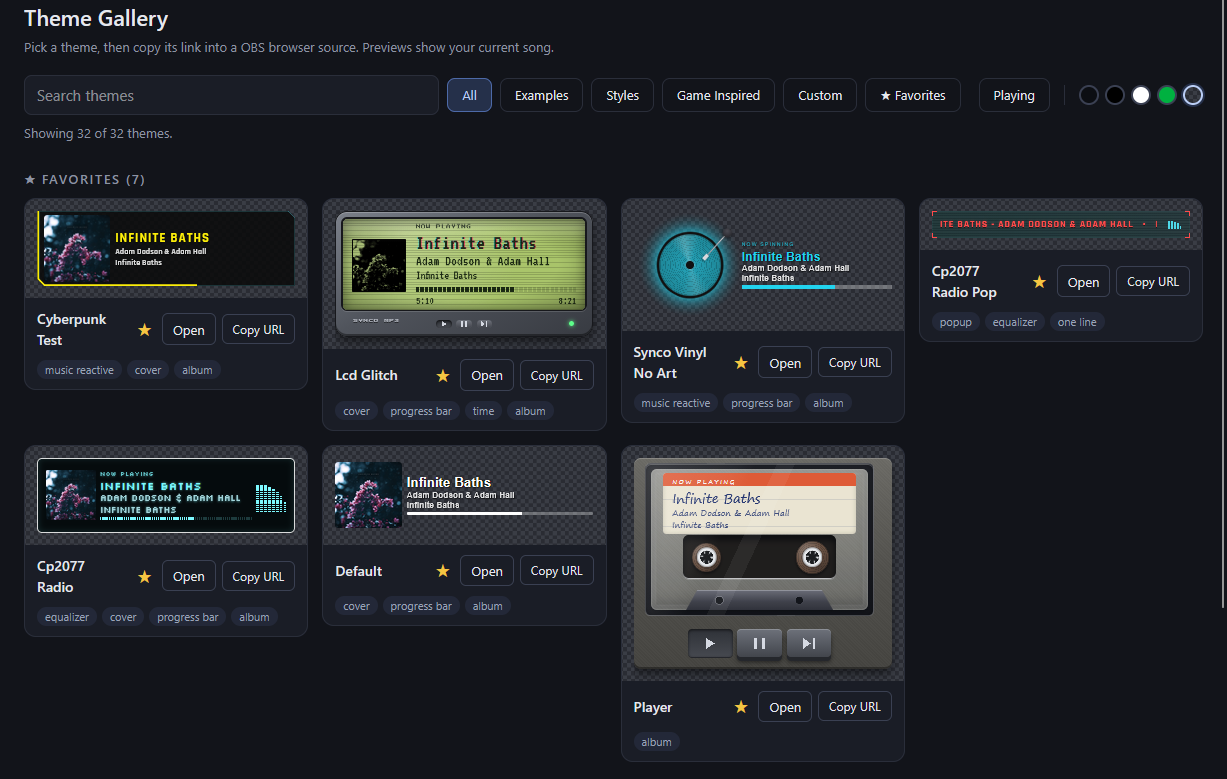
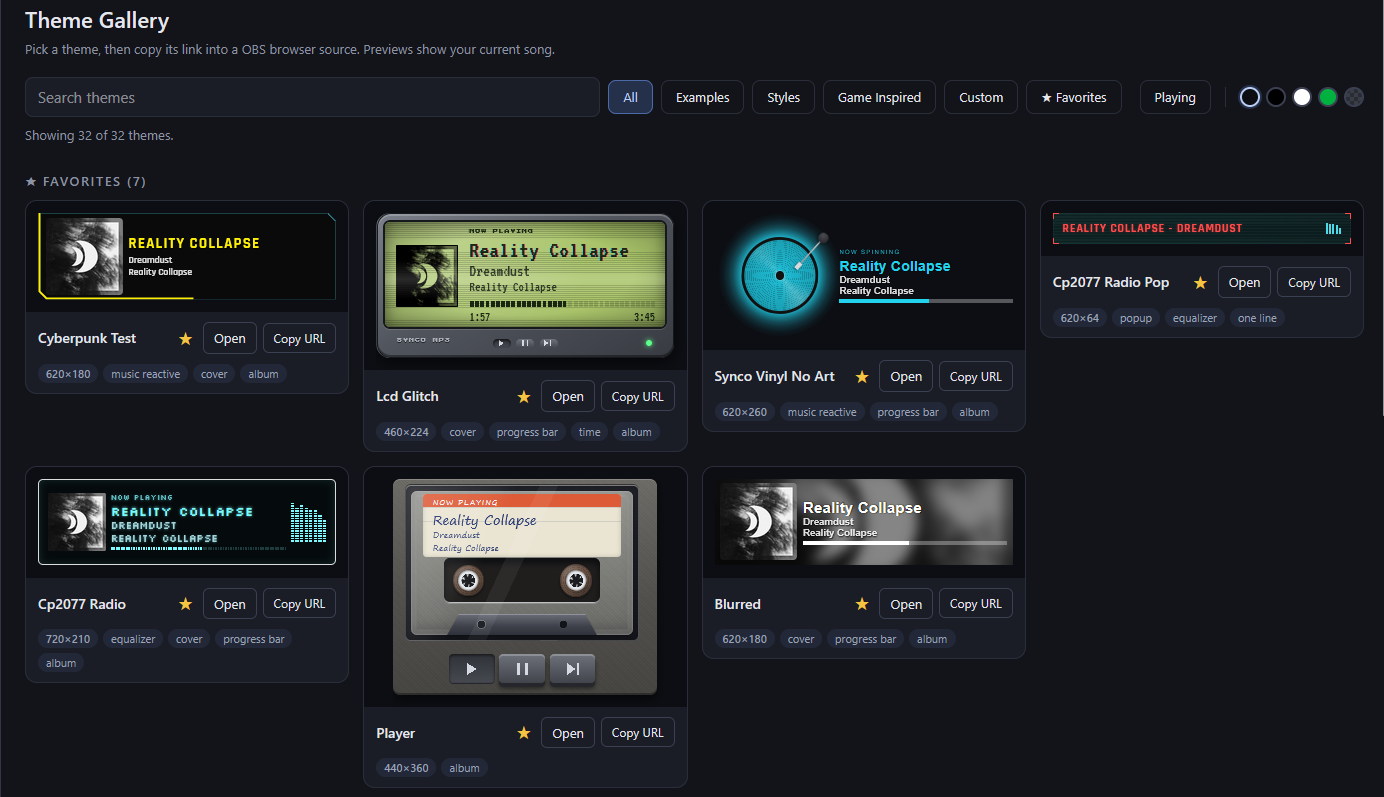
Update the README and screenshots for 0.2.0

Changed region(s): [[0.0, 0.0, 1.0, 0.9859], [0.0, 0.0, 0.4026, 0.1849], [0.4336, 0.0924, 0.5265, 0.154]]

diff --git a/README.md b/README.md
@@ -15,7 +15,7 @@ serves the overlay as a local web page, and ships with themes, an audio equalize
 - Works with the Apple Music app for Windows and the Spotify desktop app, and follows whichever one is playing
 - Live equalizer and music-reactive glows, driven by the player's audio
 - Popup mode: appears when the song changes, then fades out
-- A Theme Gallery to preview every theme, with search, filters, favorites and test backgrounds
+- A Theme Gallery to preview every theme, with search, filters, favorites and test backgrounds. Click a theme to see it bigger, with the exact OBS size
 - Themes are plain CSS files. Examples are included, and you can make your own ([how to make a theme](THEMES.md))
 - Runs quietly in the system tray, with a status line showing the current song
 - Written in Rust. Uses a few MB of memory and almost no CPU
@@ -35,11 +35,11 @@ serves the overlay as a local web page, and ships with themes, an audio equalize
    - URL: `http://localhost:5000/overlay.html`
    - Width: 620, Height: 180
 
-<img src="docs/overlay-in-obs.png" alt="Overlay in an OBS scene" widht="800">
+<img src="docs/overlay-in-obs.png" alt="Overlay in an OBS scene" width="800">
 
 To try another theme, change the address, for example, `http://localhost:5000/overlay.html?theme=eq`. You can also right-click the tray icon and use **Open in Browser** or **Copy URL**.
 
-Windows may warn you ("Windows protected your PC") because the app is not code-signed. Choose **More info > Run anyway**. The full source code is in this repository.
+Windows may warn you ("Windows protected your PC") because the app is not code-signed. Choose **More info > Run anyway**. To avoid the warning, right-click the zip before unzipping it, choose **Properties**, tick **Unblock**, and click **OK**. The full source is in this repository. 
 
 To start the app with Windows, press Win+R, type `shell:startup`, and put a shortcut to `nowplaying.exe` in the folder that opens.
 
@@ -51,32 +51,39 @@ If you unzip into a new folder instead, copy `config.toml`, `favorites.json` and
 
 ### Spotify
 
-In Spotify, open Settings and turn on **Show desktop overlay when using media keys**. Spotify only tells Windows what it is playing when this is on. Spotify does not share the album name with Windows, so themes show no album line for Spotify songs.
+In Spotify, open Settings and turn on **Show desktop overlay when using media keys**. Spotify only tells Windows what it is playing when this is on.
 
 ## Theme Gallery
 
-Open `http://localhost:5000/gallery.html` (or choose **Theme Gallery** in the tray menu) to see every theme running.
+Open `http://localhost:5000/gallery.html`, or left-click the tray icon, to see every theme running.
 
 - Search and filter themes by group
 - Click **Open** to open a theme, or **Copy URL** to paste it into OBS
+- Click a preview to enlarge it. The enlarged view shows the theme's OBS browser source size, its URL, and a scale control (1x, 1.5x, 2x) that updates both. Popup themes get a **Replay popup** button
+- Each card shows the theme's OBS size (width x height), including any room it needs for glows
+- Link straight to a theme with `gallery.html#name`, e.g. `http://localhost:5000/gallery.html#neon`
 - Click the star on a theme to add it to your **Favorites**, which appear at the top of the page
 - Use the colored dots to preview themes on a dark, black, white, green, or checkered background (useful for transparent themes)
 - Use **Playing / Paused** to freeze the previews
 
 Your favorites also appear in the tray menu, under **Open in Browser** and **Copy URL**. They are saved in `favorites.json` next to the app. Until you star something, the tray uses the `tray_themes` list from `config.toml`.
 
+<img src="docs/enlarged-view.png" alt="Enlarged View" width="800">
+
 ## The tray menu
 
-Right-click the tray icon:
+Left-click the tray icon to open the Theme Gallery. Right-click it for the menu:
 
 ![Tray menu](docs/tray-menu.png)
 
 | Item | What it does |
 |---|---|
-| Status line | Shows the current song and whether it is playing or paused. Reads "No Song Detected" when a player is open but idle, and "Not running" when none is open |
+| Status line | Shows the current song and whether it is playing or paused. Reads "No Song Detected" when a player is open but idle, and "Application Not Running" when none is open |
 | Theme Gallery | Opens the Theme Gallery in your browser |
 | Open in Browser | Opens the overlay in one of your favorite themes |
 | Copy URL | Copies the overlay address for one of your favorite themes |
+| Open Log | Opens `nowplaying.log`, which helps when something isn't working |
+| Version | Shows which version you're running. Click it to see the releases page | 
 | Restart | Restarts the app, so `config.toml` changes are picked up. |
 | Quit | Closes the app. |
 
@@ -94,6 +101,8 @@ Add these to the overlay address, for example `http://localhost:5000/overlay.htm
 
 ### Choosing a scale
 At normal size, the default overlay is 620 x 180 pixels. When you change the scale, set the OBS browser source width and height to match, or the overlay will be cut off or leave empty space.
+
+The easiest way to get the right size for any theme: open it in the Theme Gallery and click its preview. The enlarged view shows the exact browser source size at each scale.
 
 | Scale | Browser Source Size | Good For |
 |---|---|---|
@@ -160,7 +169,7 @@ Change one value at a time, by about 5 for the floor and ceiling and by about 0.
 
 ## Reporting problems and ideas
 
-Open an [issue](https://github.com/S7nco/nowplaying/issues) with your app version, your Windows version, which player you use, and the contents of `nowplaying.log`. Feature ideas are welcome there too.
+Open an [issue](https://github.com/S7nco/nowplaying/issues) with your app version (shown in the tray menu; 0.2.0 and later), your Windows version, which player you use and the contents of `nowplaying.log` (tray menu -> **Open Log**). Feature ideas are welcome there too. 
 
 
 ## Network Note
@@ -170,7 +179,7 @@ By default the overlay server only accepts connections from the same PC (`bind_a
 bind_address = "0.0.0.0"
 ```
 
-Then use your PC's network address instead of `localhost`, for example `http://192.168.1.1:5000/overlay.html`. Run `ipconfig` in the terminal and look for **IPv4 Address** to find it. Windows may ask to allow network access the first time: allow **Private networks**. The app does no send any data to the internet.
+Then use your PC's network address instead of `localhost`, for example `http://192.168.1.21:5000/overlay.html`. Run `ipconfig` in the terminal and look for **IPv4 Address** to find it. Windows may ask to allow network access the first time: allow **Private networks**. The app does not send any data to the internet.
 
 ## Building from Source
 
